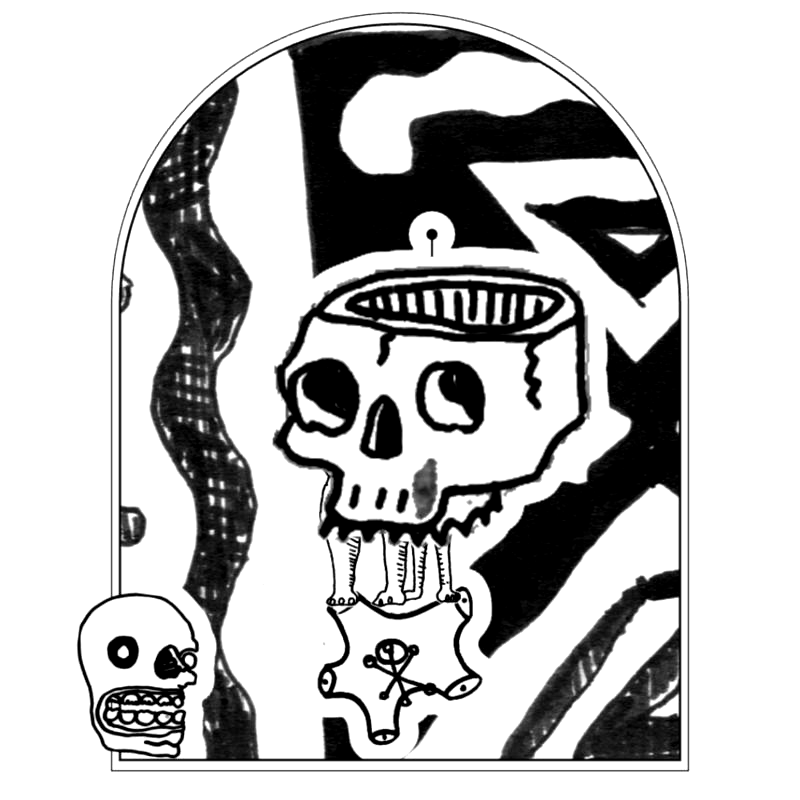
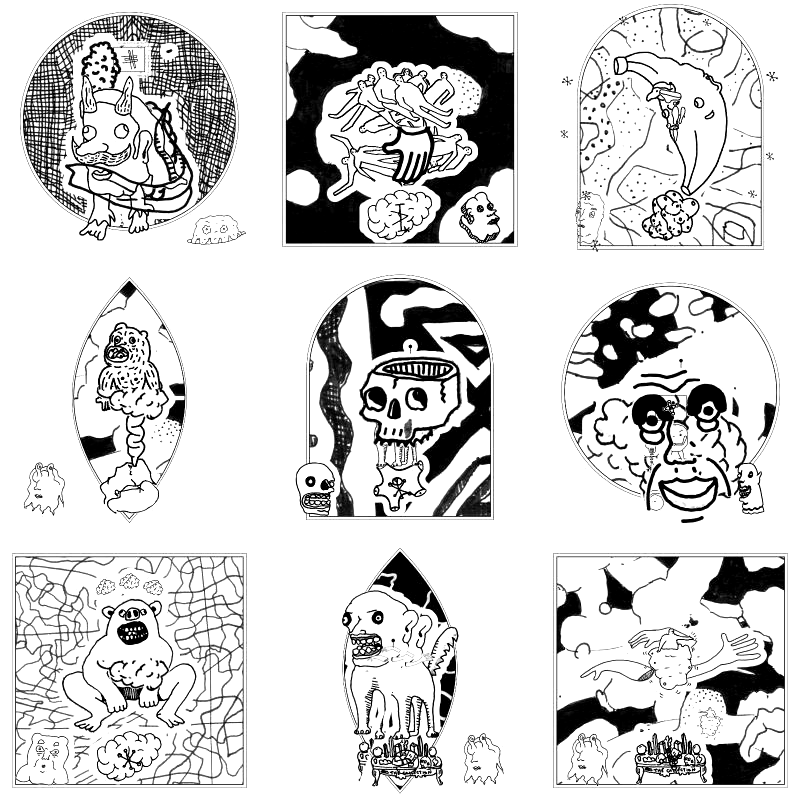
Tarjeta de la portada: hoja de nueve ídolos
Claude-Session: https://claude.ai/code/session_01KU2qa3fsnUiyLtZaneUyP4

diff --git a/docs/rondas.md b/docs/rondas.md
@@ -198,4 +198,4 @@ Problema: competían coleccionar ídolos y hacer sus propuestas; la máquina se 
 
 - MMM #3 entra a ramos-saavedra.com: tarjeta en la portada (Try something) y enlace "MMM" en el menú.
 - Abajo de todo, en los dos modos, una línea de temporada de prueba con enlace a un formulario de Tally (tally.so/r/RWKa4j). Lleva `lang` y `from=mmm`.
-- `site/card.png` (800 × 800) es la imagen de la tarjeta de la portada: el ídolo N.º 5235 (piezas r009_10, 087_025, r013_07; vuelta 2), la calavera en el arco, sacado de la máquina misma. `build.py` no la borra.
+- `site/card.png` (800 × 800) es la imagen de la tarjeta de la portada: una hoja de nueve ídolos sacados de la máquina misma (N.º 1970, 2242, 5517, 4951, 5235, 7656, 2424, 1245, 5280), tres por tres. `build.py` no la borra.
